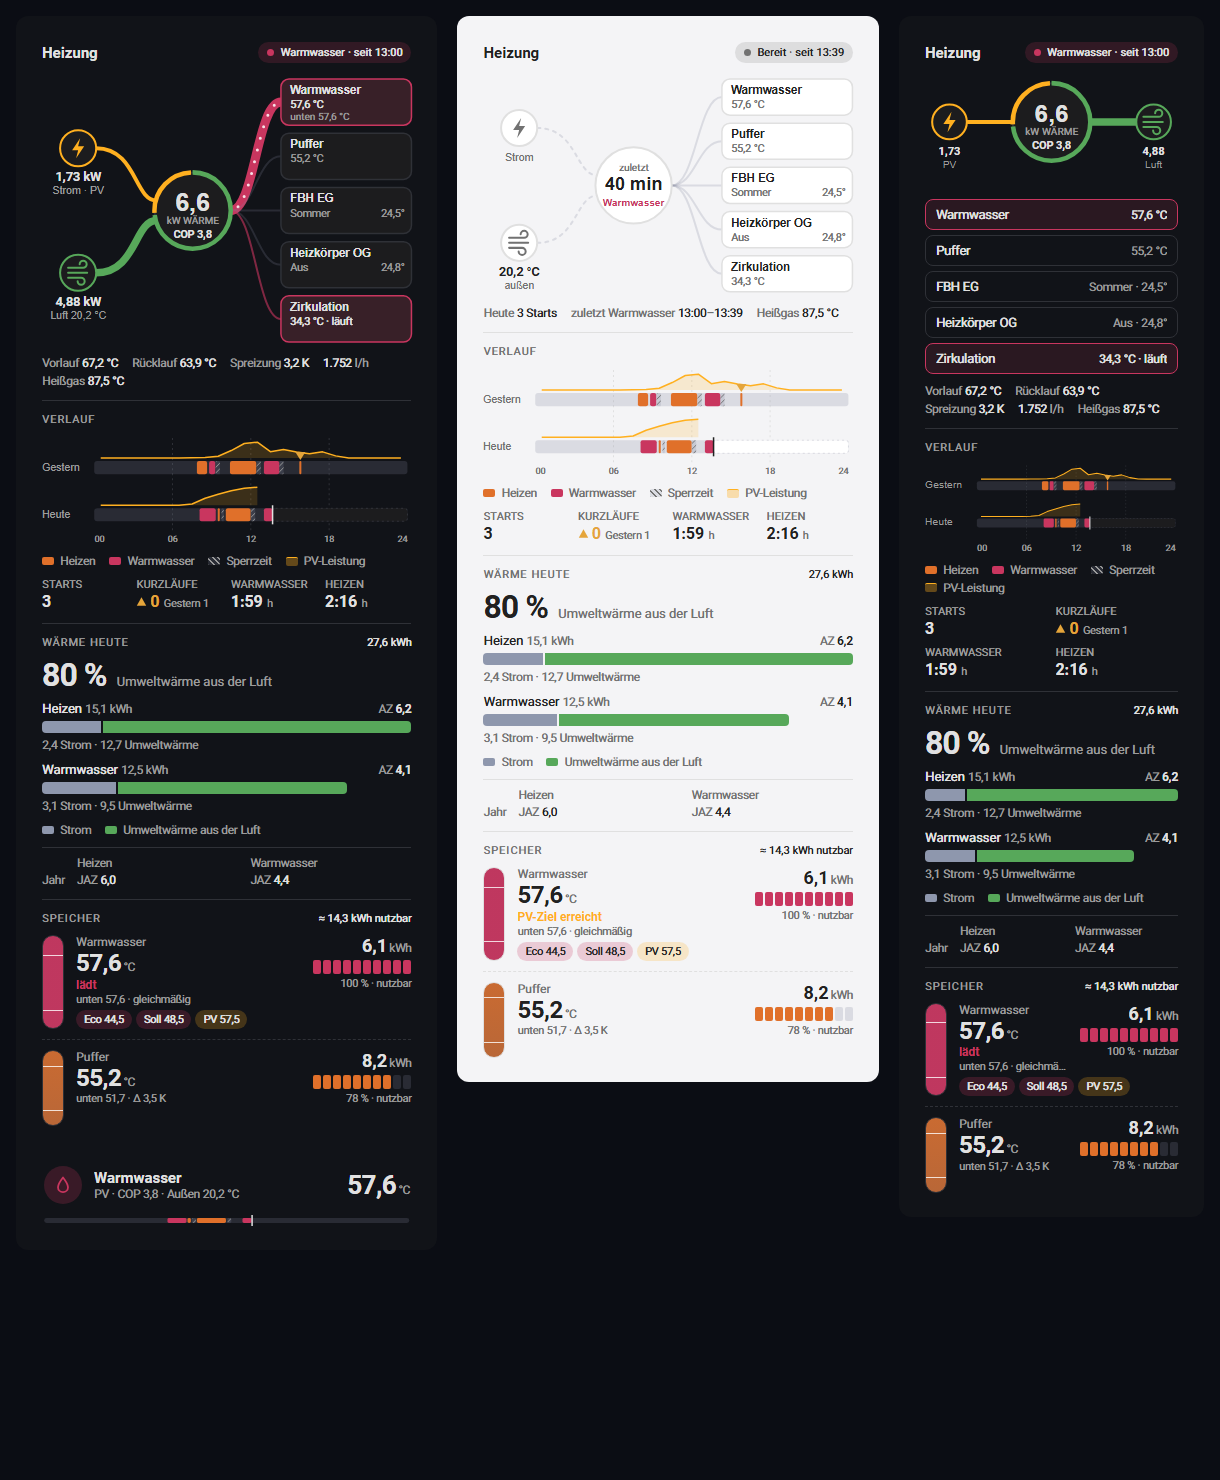
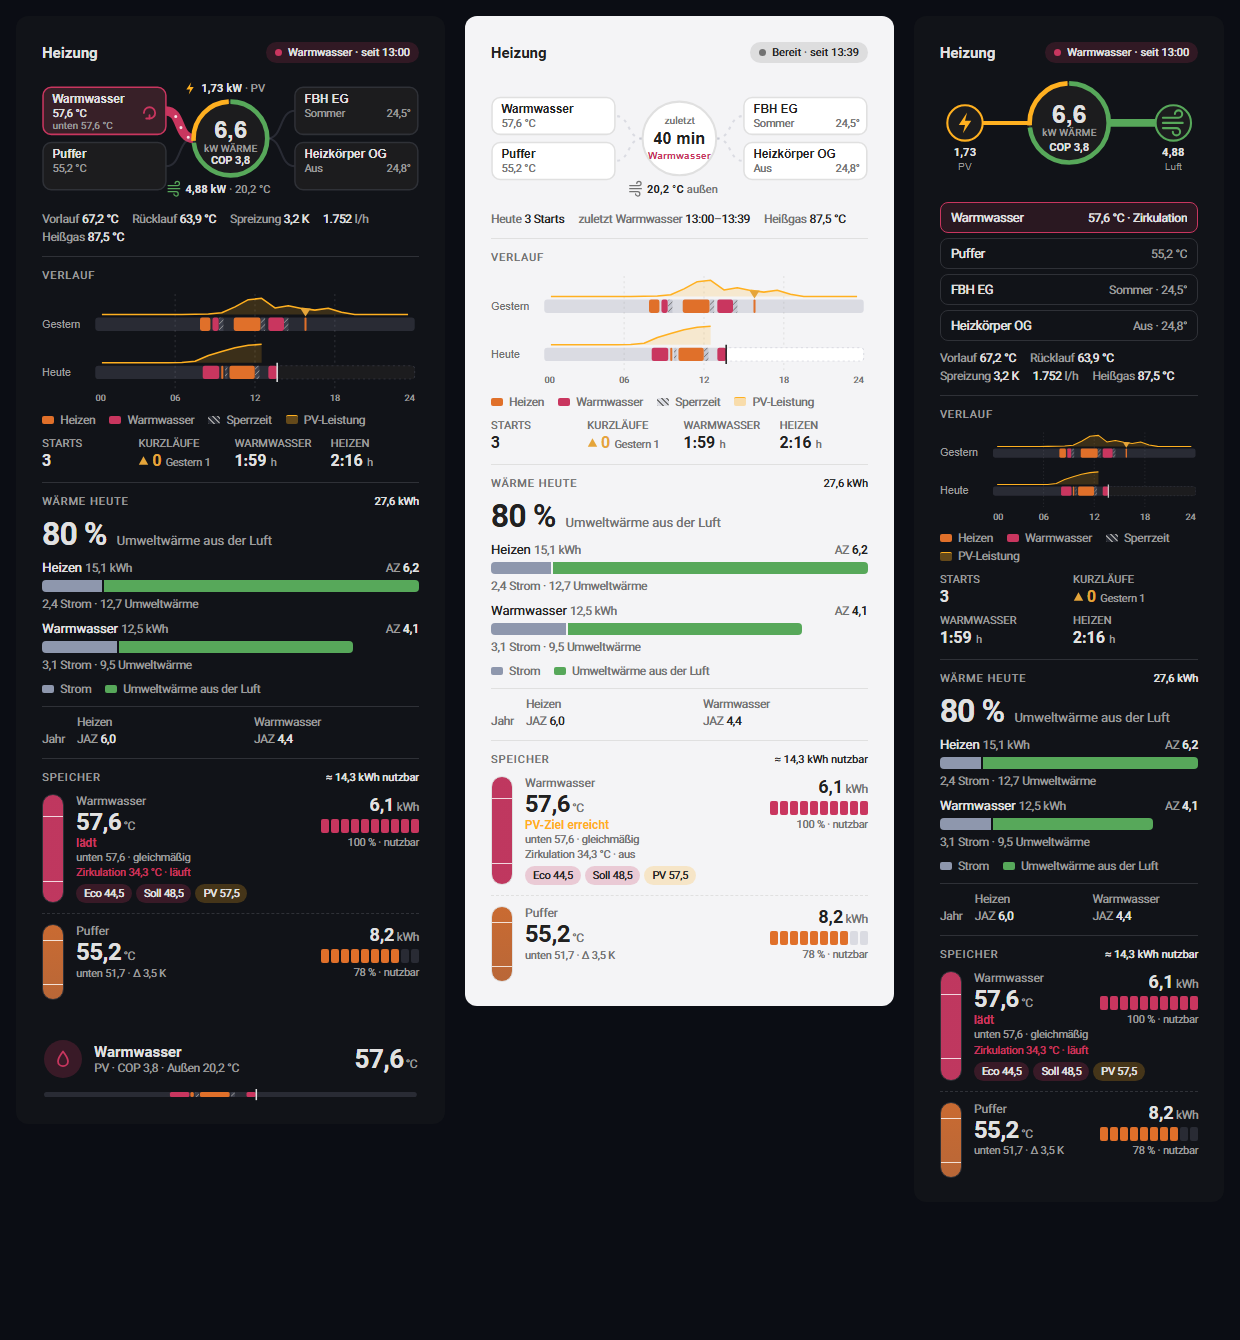
Heat Origin 0.4.0: split heat flow
Stores sit left of the heat pump and circuits right, so heat leaves the
pump both ways and the drawing is about half as tall. Electricity and
ambient heat become one line above and below the ring; at rest only the
outdoor temperature stays. flow.layout: stacked keeps the old drawing.

Changed region(s): [[0.0311, 0.0306, 0.3426, 0.8261], [0.3738, 0.0306, 0.7164, 0.7649], [0.7475, 0.0306, 0.9656, 0.8873]]

diff --git a/src/heat-origin-card.ts b/src/heat-origin-card.ts
@@ -602,7 +602,104 @@ export class HeatOriginCard extends LitElement {
 
     const rowH = sinks.some((s) => s.detail) ? 46 : 36;
     const gap = 8;
-    const stack = sinks.length ? sinks.length * rowH + (sinks.length - 1) * gap : 0;
+    const stackOf = (n: number) => (n ? n * rowH + (n - 1) * gap : 0);
+
+    // A box for one taker; the line leaves the ring towards the box's near edge.
+    const sinkNode = (sink: Sink, x: number, w: number, y: number, from: [number, number], side: 1 | -1) => {
+      const mid = y + rowH / 2;
+      const edge = side === 1 ? x : x + w;
+      const bend = Math.max(16, Math.abs(edge - from[0]) * 0.45) * side;
+      const path = `M${from[0]} ${from[1]} C ${from[0] + bend} ${from[1]}, ${edge - bend} ${mid}, ${edge} ${mid}`;
+      const maxChars = Math.floor((w - 16) / (11.5 * 0.58));
+      const name = sink.name.length > maxChars ? `${sink.name.slice(0, maxChars - 1)}…` : sink.name;
+      return svg`
+        ${sink.fed
+          ? svg`<path d=${path} fill="none" stroke=${sink.tone} stroke-width=${width(heat)} stroke-linecap="round"/>
+               <path d=${path} fill="none" stroke="#fff" stroke-width="3" opacity="0.85" class="flow-dash"/>`
+          : svg`<path d=${path} fill="none" stroke=${sink.active ? sink.tone : "var(--ho-track)"} stroke-width="2" opacity=${sink.active ? 0.6 : 1}
+              stroke-dasharray=${running ? "" : "3 5"}/>`}
+        <g class="clickable" @click=${() => this._moreInfo(sink.entity)}>
+          ${name !== sink.name ? svg`<title>${sink.name}</title>` : nothing}
+          <rect x=${x} y=${y} width=${w} height=${rowH} rx="8"
+            fill=${sink.active ? `color-mix(in srgb, ${sink.tone} 16%, var(--ho-surface))` : "var(--ho-surface)"}
+            stroke=${sink.active ? sink.tone : "var(--ho-hairline)"} stroke-width="1.5"/>
+          <text x=${x + 9} y=${y + 15} font-size="11.5" font-weight="600" fill="var(--ho-ink)">${name}</text>
+          <text x=${x + 9} y=${y + 29} font-size="10.5" fill=${sink.active ? "var(--ho-ink)" : "var(--ho-muted)"} class="mono">${sink.value}</text>
+          ${sink.right ? svg`<text x=${x + w - 7} y=${y + 29} text-anchor="end" font-size="10.5" fill="var(--ho-muted)" class="mono">${sink.right}</text>` : nothing}
+          ${sink.circulating
+            ? svg`<g transform="translate(${x + w - 16} ${y + 25})" aria-label=${this._t("stores.circulation")}>
+                <title>${this._t("stores.circulation")} ${this._t("stores.circulation_on")}</title>
+                <path d="M-5.5 0 A5.5 5.5 0 1 1 0 5.5" fill="none" stroke="var(--ho-hot-water)" stroke-width="1.8" stroke-linecap="round"/>
+                <path d="M-3.2 5.5 L0 5.5 L0 2.3" fill="none" stroke="var(--ho-hot-water)" stroke-width="1.8" stroke-linecap="round" stroke-linejoin="round"/>
+              </g>`
+            : nothing}
+          ${sink.detail ? svg`<text x=${x + 9} y=${y + 41} font-size="10" fill="var(--ho-muted)" class="mono">${sink.detail}</text>` : nothing}
+        </g>
+      `;
+    };
+
+    if (config.flow.layout === "split" && sinks.length >= 2) {
+      // Stores on the left, circuits on the right: heat leaves the heat pump both ways.
+      const stores = sinks.slice(0, config.stores.length);
+      const circuits = sinks.slice(config.stores.length);
+      const half = Math.ceil(sinks.length / 2);
+      const [left, right] = stores.length && circuits.length ? [stores, circuits] : [sinks.slice(0, half), sinks.slice(half)];
+      const r = 36;
+      const bw = 120;
+      const cx = W / 2;
+
+      // Electricity above the heat pump, ambient heat below, each as one short line.
+      const top =
+        running && config.entities.electric_power
+          ? { glyph: powerGlyph(0, 0), strong: `${formatPower(electric, locale)} kW`, weak: ` · ${this._sourceLabel(shares)}`, entity: config.entities.electric_power }
+          : undefined;
+      const bottom =
+        running && hasBoth
+          ? {
+              glyph: airGlyph(0, 0),
+              strong: `${formatPower(air, locale)} kW`,
+              weak: outdoor !== undefined ? ` · ${outdoor} °C` : ` · ${this._t("flow.air")}`,
+              entity: config.entities.outdoor ?? config.entities.heat_power
+            }
+          : outdoor !== undefined
+            ? { glyph: airGlyph(0, 0), strong: `${outdoor} °C`, weak: ` ${this._t("flow.outside")}`, entity: config.entities.outdoor }
+            : undefined;
+
+      const reach = r + (top || bottom ? 22 : 6);
+      const H = Math.max(stackOf(left.length), stackOf(right.length), 2 * reach) + 8;
+      const cy = H / 2;
+      const label = (line: { glyph: TemplateResult; strong: string; weak: string; entity?: string } | undefined, y: number) => {
+        if (!line) return nothing;
+        const size = 11;
+        const textW = (line.strong.length + line.weak.length) * size * 0.56;
+        const x0 = cx - (textW + 17) / 2;
+        return svg`<g class="clickable source-line" @click=${() => this._moreInfo(line.entity)}>
+          <g transform="translate(${x0 + 6} ${y - 4}) scale(0.6)">${line.glyph}</g>
+          <text x=${x0 + 17} y=${y} font-size=${size} class="mono"><tspan font-weight="600" fill="var(--ho-ink)">${line.strong}</tspan><tspan fill="var(--ho-muted)">${line.weak}</tspan></text>
+        </g>`;
+      };
+      const leftY0 = cy - stackOf(left.length) / 2;
+      const rightY0 = cy - stackOf(right.length) / 2;
+
+      return html`
+        <div class="section">
+          <svg viewBox="0 0 ${W} ${H}" role="img" aria-label="${this._modeLabel(mode.kind, mode.raw)}">
+            ${left.map((s, i) => sinkNode(s, 1, bw, leftY0 + i * (rowH + gap), [cx - r, cy], -1))}
+            ${right.map((s, i) => sinkNode(s, W - bw - 1, bw, rightY0 + i * (rowH + gap), [cx + r, cy], 1))}
+            <g class="clickable" @click=${() => this._moreInfo(config.entities.heat_power)}>
+              <circle cx=${cx} cy=${cy} r=${r} fill="var(--ho-surface)" stroke="var(--ho-hairline)" stroke-width="2"/>
+              ${running && hasBoth ? this._ring(cx, cy, r, heat, electric, shares) : nothing}
+              ${centre(cx, cy, r, 23)}
+            </g>
+            ${label(top, cy - r - 9)}
+            ${label(bottom, cy + r + 17)}
+          </svg>
+          ${this._footBlock(running)}
+        </div>
+      `;
+    }
+
+    const stack = stackOf(sinks.length);
     const H = Math.max(200, stack + 8);
     const cy = H / 2;
     const cx = 150;
@@ -640,33 +737,7 @@ export class HeatOriginCard extends LitElement {
         </g>`);
     }
 
-    const sinkNodes = sinks.map((sink, i) => {
-      const y = y0 + i * (rowH + gap);
-      const mid = y + rowH / 2;
-      const path = `M${cx + r} ${cy} C ${cx + r + 24} ${cy}, ${sinkX - 24} ${mid}, ${sinkX} ${mid}`;
-      return svg`
-        ${sink.fed
-          ? svg`<path d=${path} fill="none" stroke=${sink.tone} stroke-width=${width(heat)} stroke-linecap="round"/>
-               <path d=${path} fill="none" stroke="#fff" stroke-width="3" opacity="0.85" class="flow-dash"/>`
-          : svg`<path d=${path} fill="none" stroke=${sink.active ? sink.tone : "var(--ho-track)"} stroke-width="2" opacity=${sink.active ? 0.6 : 1}/>`}
-        <g class="clickable" @click=${() => this._moreInfo(sink.entity)}>
-          <rect x=${sinkX} y=${y} width=${sinkW} height=${rowH} rx="8"
-            fill=${sink.active ? `color-mix(in srgb, ${sink.tone} 16%, var(--ho-surface))` : "var(--ho-surface)"}
-            stroke=${sink.active ? sink.tone : "var(--ho-hairline)"} stroke-width="1.5"/>
-          <text x=${sinkX + 9} y=${y + 15} font-size="11.5" font-weight="600" fill="var(--ho-ink)">${sink.name}</text>
-          <text x=${sinkX + 9} y=${y + 29} font-size="10.5" fill=${sink.active ? "var(--ho-ink)" : "var(--ho-muted)"} class="mono">${sink.value}</text>
-          ${sink.right ? svg`<text x=${W - 7} y=${y + 29} text-anchor="end" font-size="10.5" fill="var(--ho-muted)" class="mono">${sink.right}</text>` : nothing}
-          ${sink.circulating
-            ? svg`<g transform="translate(${W - 18} ${y + 25})" aria-label=${this._t("stores.circulation")}>
-                <title>${this._t("stores.circulation")} ${this._t("stores.circulation_on")}</title>
-                <path d="M-5.5 0 A5.5 5.5 0 1 1 0 5.5" fill="none" stroke="var(--ho-hot-water)" stroke-width="1.8" stroke-linecap="round"/>
-                <path d="M-3.2 5.5 L0 5.5 L0 2.3" fill="none" stroke="var(--ho-hot-water)" stroke-width="1.8" stroke-linecap="round" stroke-linejoin="round"/>
-              </g>`
-            : nothing}
-          ${sink.detail ? svg`<text x=${sinkX + 9} y=${y + 41} font-size="10" fill="var(--ho-muted)" class="mono">${sink.detail}</text>` : nothing}
-        </g>
-      `;
-    });
+    const sinkNodes = sinks.map((sink, i) => sinkNode(sink, sinkX, sinkW - 1, y0 + i * (rowH + gap), [cx + r, cy], 1));
 
     return html`
       <div class="section">

diff --git a/tests/render.test.ts b/tests/render.test.ts
@@ -53,7 +53,7 @@ describe("the flow", () => {
 
   it("colours the electricity by where it comes from and names the source", async () => {
     const { root } = await mount(FULL_CONFIG);
-    expect(text(root)).toContain("Strom · PV");
+    expect(text(root.querySelector(".source-line") as Element)).toContain("1,73 kW · PV");
     const grid = await mount(
       FULL_CONFIG,
       makeHass({
@@ -61,7 +61,9 @@ describe("the flow", () => {
         [IDS.grid_power]: { entity_id: IDS.grid_power, state: "2700", attributes: { unit_of_measurement: "W" } }
       })
     );
-    expect(text(grid.root)).toContain("Strom · Netz");
+    expect(text(grid.root.querySelector(".source-line") as Element)).toContain("· Netz");
+    const stacked = await mount({ ...FULL_CONFIG, flow: { layout: "stacked" } });
+    expect(text(stacked.root)).toContain("Strom · PV");
   });
 
   it("draws the heat flowing to hot water and the circuits with their words, the circulation only as a mark on the hot water", async () => {
@@ -77,6 +79,25 @@ describe("the flow", () => {
     expect(text(root.querySelector(".section svg") as Element)).not.toContain("Zirkulation 34,3");
     expect(root.querySelector(".section svg title")?.textContent).toContain("Zirkulation läuft");
     expect(root.querySelectorAll(".flow-dash")).toHaveLength(1);
+  });
+
+  it("splits the takers: stores left of the heat pump, circuits right, sources above and below", async () => {
+    const { root } = await mount(FULL_CONFIG);
+    const box = (name: string) =>
+      [...root.querySelectorAll(".section svg rect")].find((r) => r.parentElement?.textContent?.includes(name)) as Element;
+    const x = (name: string) => Number(box(name).getAttribute("x"));
+    expect(x("Warmwasser")).toBeLessThan(100);
+    expect(x("Puffer")).toBeLessThan(100);
+    expect(x("FBH EG")).toBeGreaterThan(200);
+    expect(x("Heizkörper OG")).toBeGreaterThan(200);
+    const lines = [...root.querySelectorAll(".source-line")].map((l) => text(l));
+    expect(lines).toEqual(["1,73 kW · PV", "4,88 kW · 20,2 °C"]);
+  });
+
+  it("keeps only the outdoor temperature in the middle while standing still", async () => {
+    const { root } = await mount(FULL_CONFIG, idle());
+    const lines = [...root.querySelectorAll(".source-line")].map((l) => text(l));
+    expect(lines).toEqual(["20,2 °C außen"]);
   });
 
   it("puts flow, return, spread, volume and extra figures under the flow while running", async () => {

diff --git a/src/config.ts b/src/config.ts
@@ -57,6 +57,7 @@ export function resolveConfig(config: HeatOriginCardConfig): ResolvedConfig {
     modes: resolveModes(config.modes),
     ...foldCirculation(config),
     flow: {
+      layout: config.flow?.layout === "stacked" ? "stacked" : "split",
       spread: config.flow?.spread ?? true,
       circuit_details: config.flow?.circuit_details ?? false,
       extras: config.flow?.extras ?? []
@@ -95,6 +96,7 @@ export function editorData(config: HeatOriginCardConfig): HeatOriginCardConfig {
     },
     flow: {
       ...config.flow,
+      layout: resolved.flow.layout,
       spread: resolved.flow.spread,
       circuit_details: resolved.flow.circuit_details
     },
@@ -200,6 +202,18 @@ export function getConfigForm(locale: string) {
       name: "flow",
       title: t("editor.options"),
       schema: [
+        {
+          name: "layout",
+          selector: {
+            select: {
+              mode: "dropdown",
+              options: [
+                { value: "split", label: t("editor.layout_split") },
+                { value: "stacked", label: t("editor.layout_stacked") }
+              ]
+            }
+          }
+        },
         { name: "spread", selector: { boolean: {} } },
         { name: "circuit_details", selector: { boolean: {} } }
       ]
@@ -253,6 +267,7 @@ export function getConfigForm(locale: string) {
     hot_water_electric_today: t("editor.hot_water_electric_today"),
     heat_today: t("editor.heat_today"),
     electric_today: t("editor.electric_today"),
+    layout: t("editor.layout"),
     spread: t("editor.spread"),
     circuit_details: t("editor.circuit_details"),
     days: t("editor.days"),

diff --git a/src/localize.ts b/src/localize.ts
@@ -121,6 +121,9 @@ const en: Table = {
   "editor.electric_today": "Electricity today (total)",
   "editor.options": "Options",
   "editor.spread": "Flow, return and spread under the flow",
+  "editor.layout": "Heat flow layout",
+  "editor.layout_split": "Stores left, circuits right",
+  "editor.layout_stacked": "Sources left, everything else right",
   "editor.circuit_details": "Flow, return and spread per circuit",
   "editor.days": "Days in the band",
   "editor.days_1": "Today",
@@ -250,6 +253,9 @@ const de: Table = {
   "editor.electric_today": "Strom heute (gesamt)",
   "editor.options": "Optionen",
   "editor.spread": "Vorlauf, Rücklauf und Spreizung unter dem Fluss",
+  "editor.layout": "Aufteilung Wärmefluss",
+  "editor.layout_split": "Speicher links, Heizkreise rechts",
+  "editor.layout_stacked": "Quellen links, alles andere rechts",
   "editor.circuit_details": "Vorlauf, Rücklauf und Spreizung je Heizkreis",
   "editor.days": "Tage im Band",
   "editor.days_1": "Heute",

diff --git a/src/types.ts b/src/types.ts
@@ -119,6 +119,11 @@ export interface ExtraFigure {
 }
 
 export interface FlowOptions {
+  /**
+   * `split`: stores left, circuits right, electricity and ambient heat as lines
+   * above and below the heat pump. `stacked`: sources left, all takers right.
+   */
+  layout?: "split" | "stacked";
   /** Flow, return, spread and volume under the flow drawing. */
   spread?: boolean;
   /** Flow, return and spread inside each circuit's box. */

diff --git a/README.md b/README.md
@@ -2,7 +2,7 @@
 
 A heat pump card for Home Assistant. Where the heat comes from, where it goes, and how the day went. The sister card to [Power Origin](https://github.com/hoizi89/power-origin-card).
 
-- **Heat flow** — electricity and ambient heat flow into the heat pump, the heat flows on to whatever is taking it: hot water, buffer, each heating circuit. Line widths follow the kilowatts; the electricity wears the colour of its source as in Power Origin (sun, battery, grid), the ambient heat is green, and the ring shows both shares. Circuits show their own state, room temperature and, optionally, flow, return and spread. A running circulation pump puts a small loop mark on the hot water. Standing still, the centre tells the last run. In a column narrower than 340 px the takers become a list.
+- **Heat flow** — the heat pump in the middle, the stores on its left and the heating circuits on its right; electricity and ambient heat stand as one line each above and below it. Line widths follow the kilowatts; the electricity wears the colour of its source as in Power Origin (sun, battery, grid), the ambient heat is green, and the ring shows both shares. Circuits show their own state, room temperature and, optionally, flow, return and spread. A running circulation pump puts a small loop mark on the hot water. Standing still, the centre tells the last run. In a column narrower than 340 px the takers become a list.
 - **Day band** — yesterday and today as 24-hour bands coloured by what the heat pump did, with PV power above. Starts, short runs and running time are counted from the history; hover a short-run marker for its time. A notice appears only when the heat pump cycles.
 - **Heat today** — the day's heat per mode, split into electricity and ambient heat, with the performance factor of the day and month and the seasonal performance factor of the year.
 - **Storage** — each store's temperature first, the tank drawn as its layering between the sensors, the set-points you enter as marks, and with the volume the usable heat in kWh.
@@ -86,6 +86,7 @@ flow:
 | `stores[].usable_min` | 40 hot water, 30 buffer | °C below which the heat counts as not usable. |
 | `stores[].kind` | guessed from the name | `hot_water` or `buffer`. |
 | `stores[].marks` | | `eco`, `target`, `pv`, `max` as numbers. |
+| `flow.layout` | `split` | `split`: stores left, circuits right, sources above and below the heat pump. `stacked`: sources left, every taker right. With a single taker the drawing is always stacked. |
 | `flow.spread` | `true` | Flow, return, spread and volume under the drawing. |
 | `flow.circuit_details` | `false` | Flow, return and spread inside each circuit. |
 | `flow.extras` | | Further figures, `{ entity, name, running_only }`; `running_only` hides a figure at rest, e.g. hot gas. |
